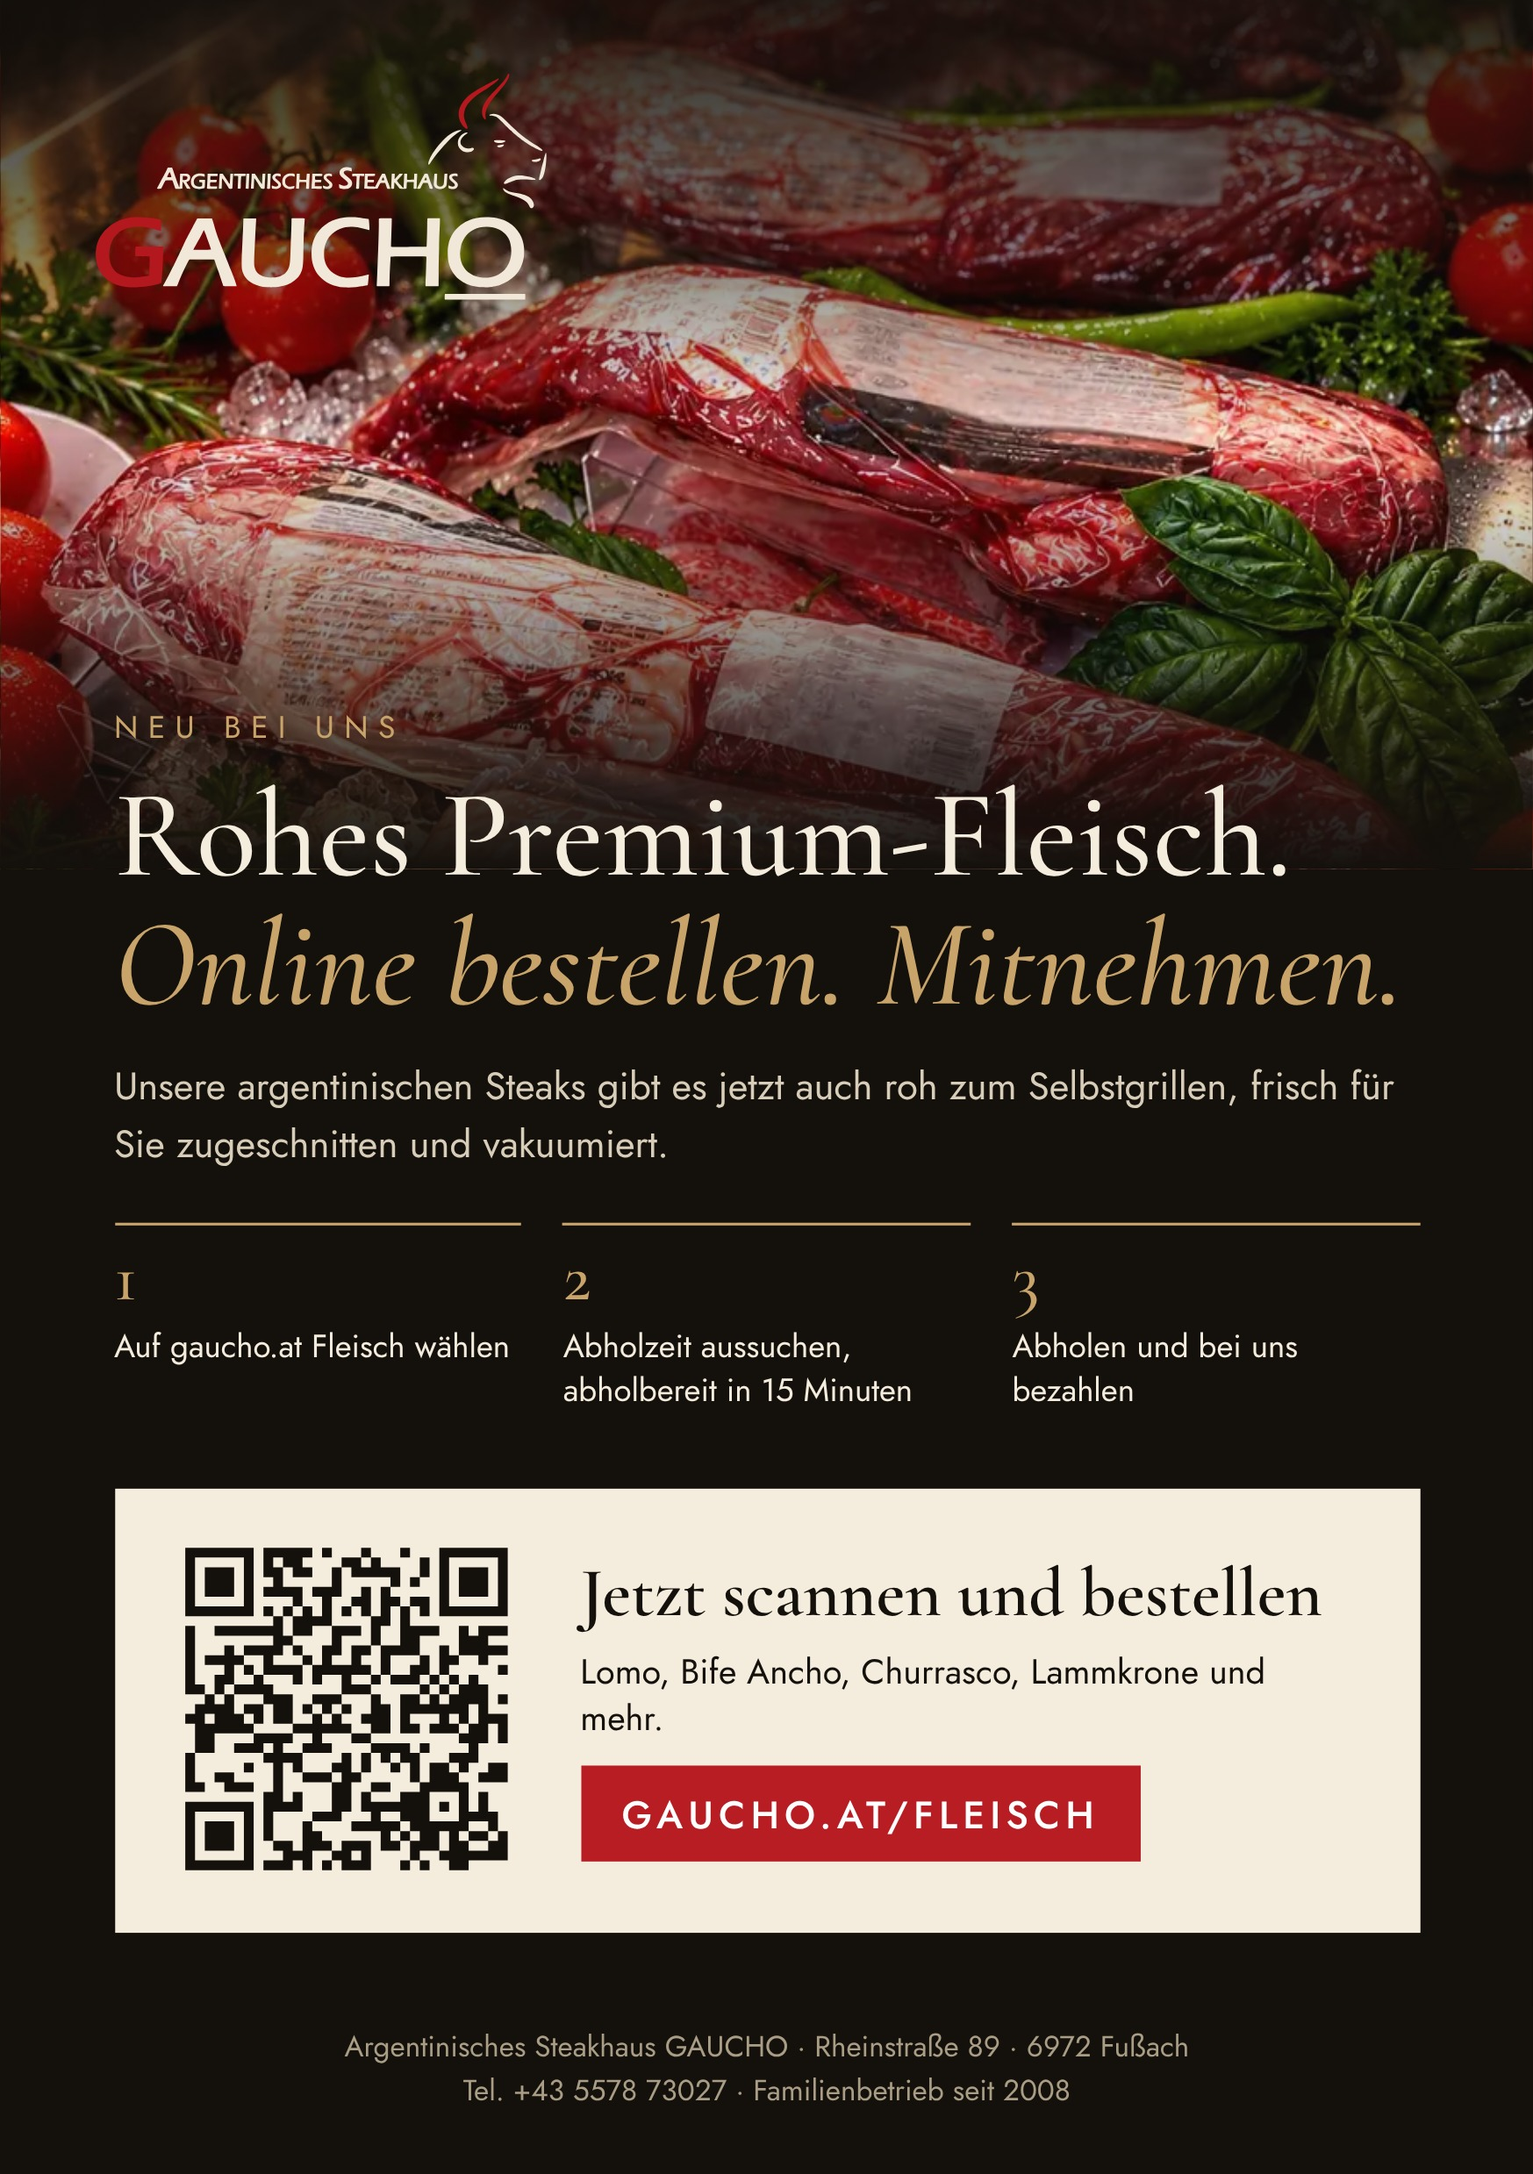
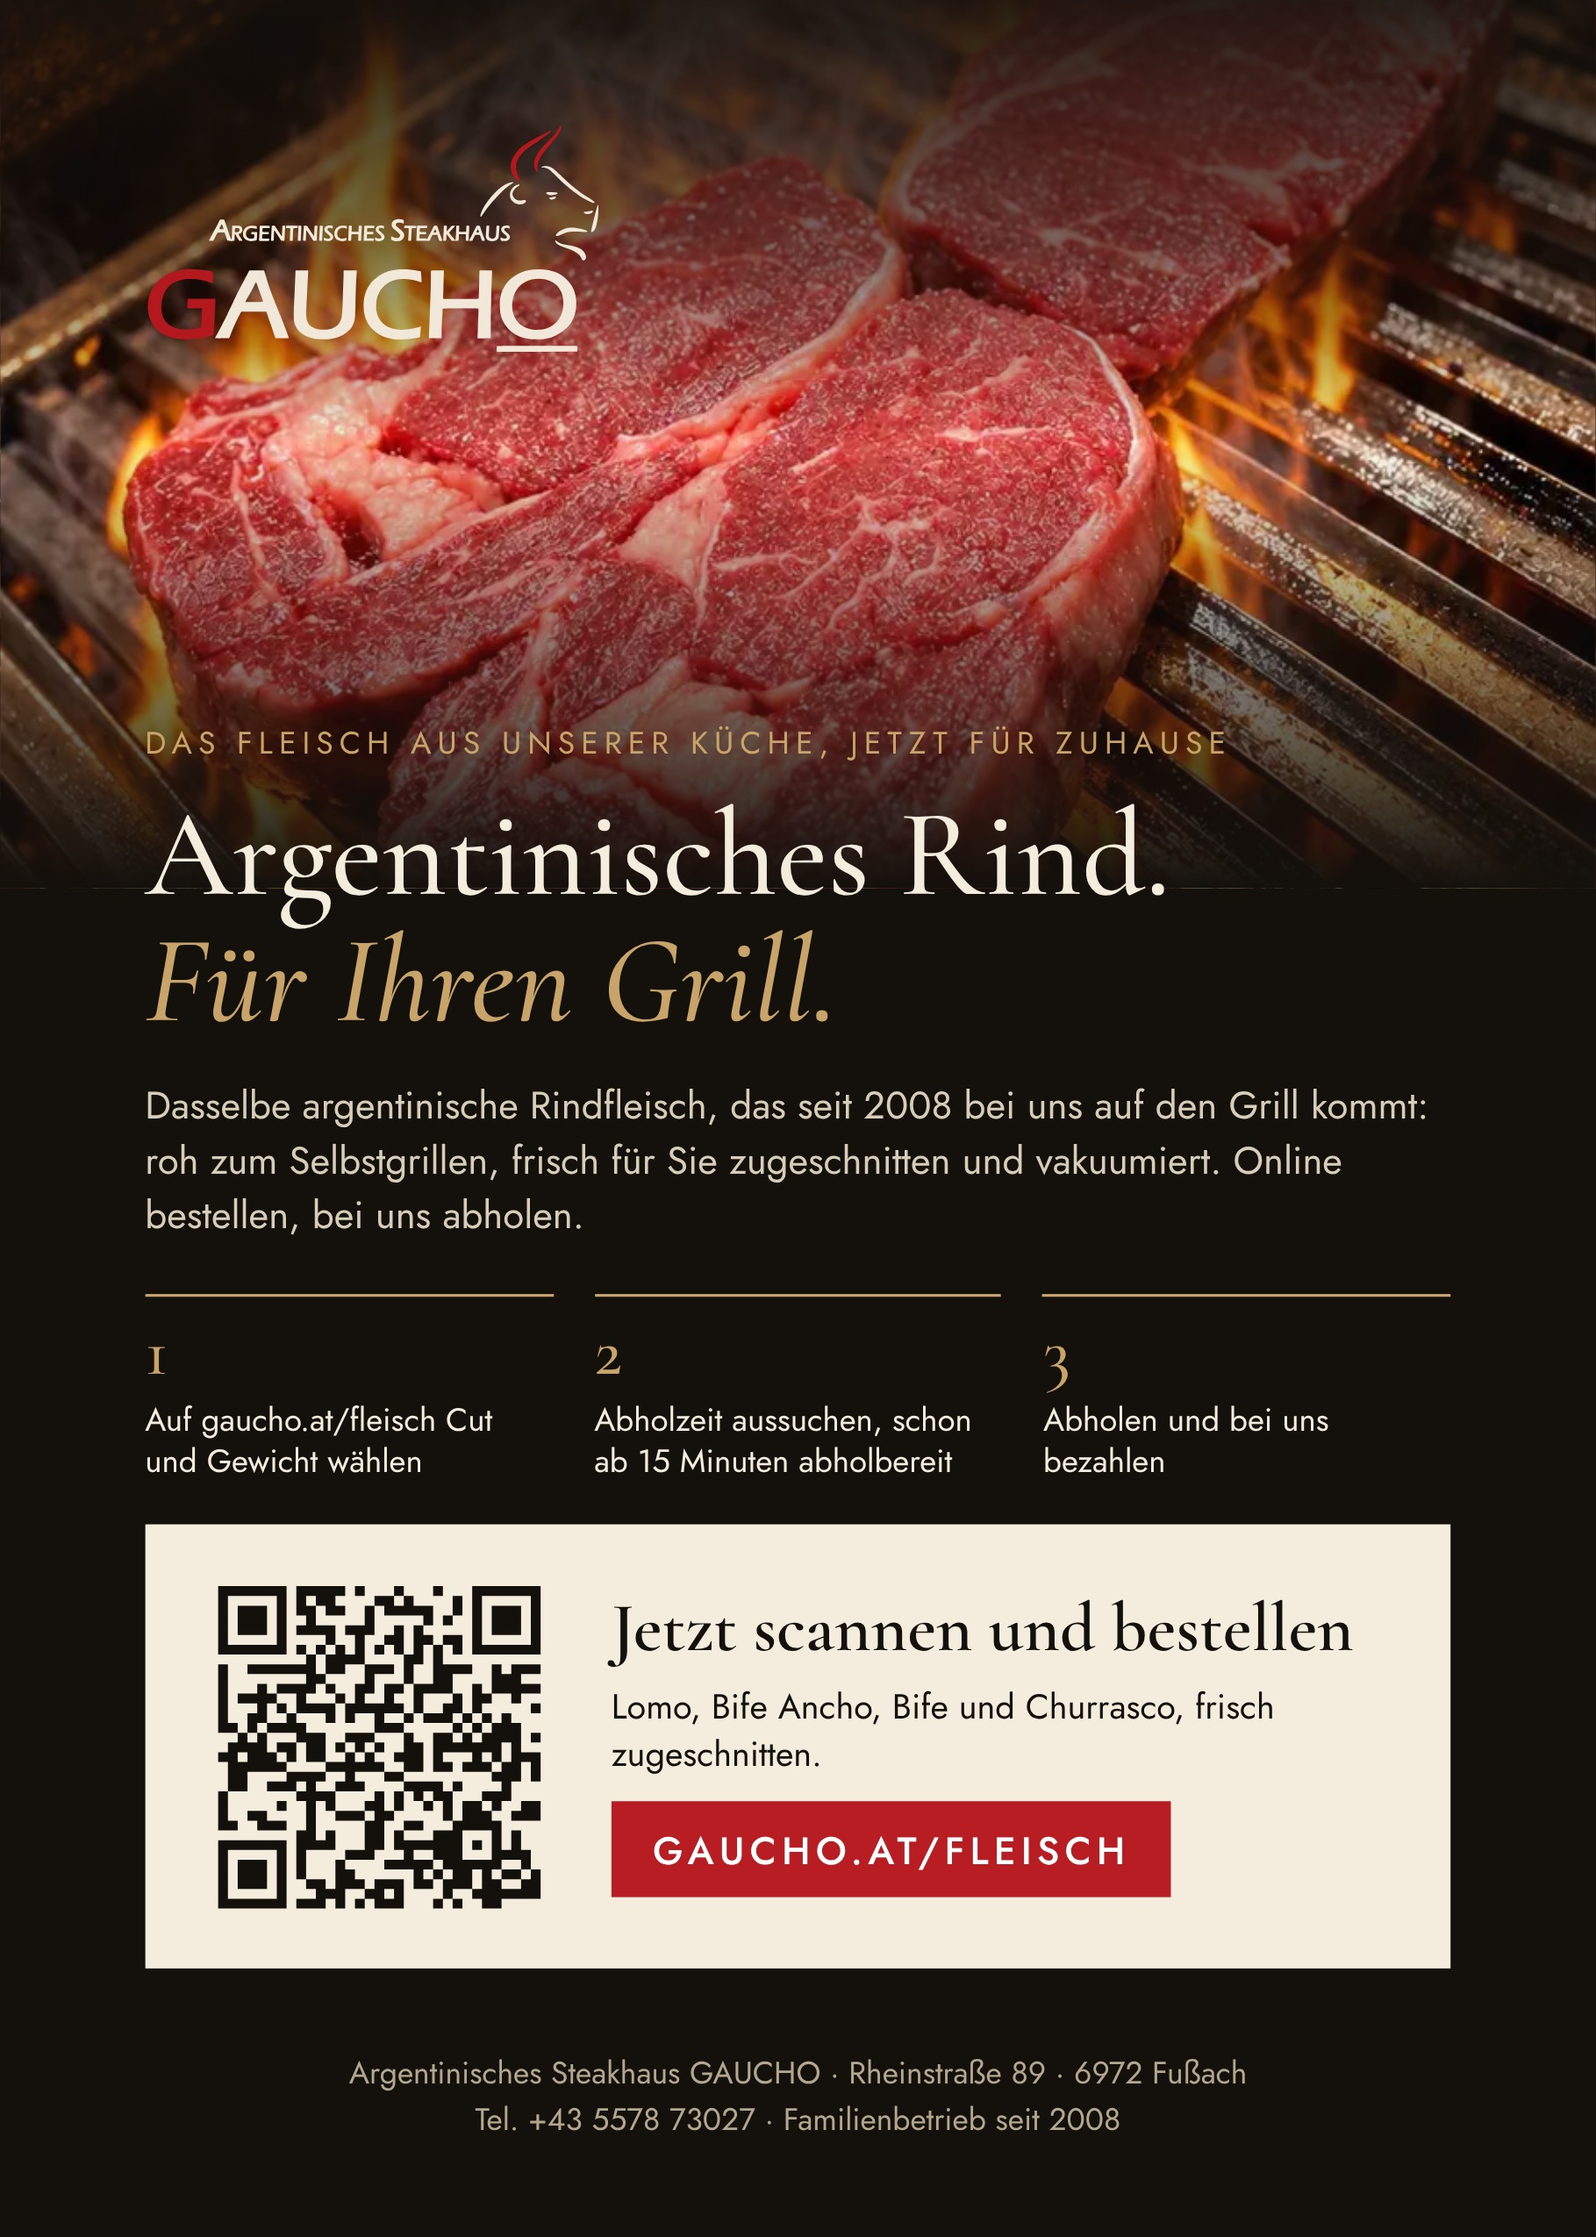
Flyer überarbeitet: Beschnitt 3 mm, neue Überschrift und Foto, QR-Code hinten
Claude-Session: https://claude.ai/code/session_01YbDbssFw5gtfydQv6mVBaH

diff --git a/flyer/rueckseite.html b/flyer/rueckseite.html
@@ -1,10 +1,10 @@
 <!doctype html><html lang="de"><head><meta charset="utf-8"><title>Gaucho Flyer Rückseite</title>
 <link rel="stylesheet" href="../assets/fonts.css"><base href="../assets/">
 <style>
-@page{size:148mm 210mm;margin:0}
+@page{size:154mm 216mm;margin:0}
 *{box-sizing:border-box;margin:0;padding:0}
-html,body{width:148mm;height:210mm;background:#14100c;color:#f4ecdc;font-family:Jost,sans-serif;-webkit-print-color-adjust:exact;print-color-adjust:exact}
-.f{position:relative;width:148mm;height:210mm;overflow:hidden;display:flex;flex-direction:column}
+html,body{width:154mm;height:216mm;background:#14100c;color:#f4ecdc;font-family:Jost,sans-serif;-webkit-print-color-adjust:exact;print-color-adjust:exact}
+.f{position:relative;width:154mm;height:216mm;overflow:hidden;display:flex;flex-direction:column}
 .foto{height:84mm;background:url(bilder/roh-vakuum-900.webp) center/cover;position:relative}
 .foto:after{content:"";position:absolute;inset:0;background:linear-gradient(180deg,rgba(20,16,12,.92),rgba(20,16,12,.55) 28%,rgba(20,16,12,0) 50%,#14100c 100%)}
 .logo{position:absolute;top:7mm;left:9mm;width:44mm;z-index:2}
@@ -24,7 +24,7 @@ h1 em{color:#c9a46a}
 .url{display:inline-block;margin-top:2.5mm;background:#b81d24;color:#fff;font-weight:500;letter-spacing:.14em;font-size:10.5pt;padding:2mm 4mm;text-transform:uppercase}
 .fuss{font-size:8pt;color:#a99d86;text-align:center;padding-bottom:6mm;line-height:1.5}
 
-.r{padding:9mm 11mm 0;flex:1;display:flex;flex-direction:column}
+.r{padding:13mm 14mm 0;flex:1;display:flex;flex-direction:column}
 .kopf{display:flex;justify-content:space-between;align-items:flex-start}
 .kopf img{width:34mm}
 h1.k{font-size:30pt;margin:4mm 0 7mm}
@@ -33,7 +33,7 @@ h1.k{font-size:30pt;margin:4mm 0 7mm}
 .cut .b{aspect-ratio:3/4;background-size:cover;background-position:center}
 .cut .t{padding:2mm 3mm 2.5mm}
 .cut b{font-family:'Cormorant Garamond',serif;font-size:13pt;font-weight:600;display:block;line-height:1.05}
-.cut span{font-size:6.6pt;color:#c9a46a;letter-spacing:.08em}
+.cut span{font-size:7.8pt;color:#c9a46a;letter-spacing:.08em}
 .zwei{display:grid;grid-template-columns:1fr 1fr;gap:6mm;margin-top:11mm}
 .zwei h3{font-family:'Cormorant Garamond',serif;font-size:16pt;font-weight:600;color:#c9a46a;border-bottom:.3mm solid #c9a46a;padding-bottom:1mm;margin-bottom:1.5mm}
 .zwei p{font-size:9.6pt;line-height:1.55;color:#d8cdb8}
@@ -41,8 +41,9 @@ h1.k{font-size:30pt;margin:4mm 0 7mm}
 .gh{margin-top:11mm;border:.3mm solid #c9a46a;padding:3mm 4mm;display:flex;justify-content:space-between;align-items:center;gap:4mm}
 .gh b{font-family:'Cormorant Garamond',serif;font-size:16pt;font-weight:600}
 .gh p{font-size:9.2pt;color:#d8cdb8;line-height:1.35}
-.gh .url{margin:0;white-space:nowrap;font-size:9pt}
-.fuss{margin-top:auto;padding-top:4mm}
+.gh .url{margin-top:2.5mm;white-space:nowrap;font-size:9pt}
+.qr-klein{width:26mm;height:26mm;flex:none;background:#f4ecdc;padding:1.5mm}
+.fuss{margin-top:auto;padding-top:4mm;padding-bottom:9mm;font-size:8.5pt;color:#b3a78f}
 </style></head><body><div class="f"><div class="r">
 <div class="kopf"><div><div class="kicker">Carnicería · Fleisch-Shop</div><h1 class="k">Unsere <em>Cuts</em></h1></div><img src="logo-hell.svg" alt=""></div>
 <div class="cuts">
@@ -52,9 +53,9 @@ h1.k{font-size:30pt;margin:4mm 0 7mm}
  <div class="cut"><div class="b" style="background-image:url(bilder/churrasco-900.webp)"></div><div class="t"><b>Churrasco</b><span>HÜFTSTEAK</span></div></div>
 </div>
 <div class="zwei">
- <div><h3>Fleisch abholen</h3><p><strong>Di – Fr</strong> 15:00 – 21:00<br><strong>Sa, So</strong><br>12:00 – 14:00 · 16:00 – 21:00<br><strong>Mo</strong> Ruhetag<br>Frisch zugeschnitten, Gewicht frei wählbar. Bezahlung bar oder mit Karte bei Abholung.</p></div>
- <div><h3>Im Restaurant</h3><p><strong>Di – Fr</strong> 17:00 – 22:00<br><strong>Sa, So & Feiertage</strong><br>11:00 – 14:00 · 17:00 – 22:00<br><strong>Mo</strong> Ruhetag<br>Tisch reservieren auf gaucho.at/reservieren oder telefonisch.</p></div>
+ <div><h3>Fleisch abholen</h3><p><strong>Di – Fr</strong> 15 – 21 Uhr<br><strong>Sa, So</strong><br>12 – 14 und 16 – 21 Uhr<br><strong>Mo</strong> Ruhetag<br>Frisch zugeschnitten, Gewicht frei wählbar. Bezahlung bar oder mit Karte bei Abholung.</p></div>
+ <div><h3>Im Restaurant</h3><p><strong>Di – Fr</strong> 17 – 22 Uhr<br><strong>Sa, So, Feiertage</strong><br>11 – 14 und 17 – 22 Uhr<br><strong>Mo</strong> Ruhetag<br>Tisch reservieren auf gaucho.at/reservieren oder telefonisch.</p></div>
 </div>
-<div class="gh"><div><b>Für Grillabend & Festtage</b><p>Steak in Restaurantqualität für zuhause. Abholbereit schon 15 Minuten nach der Bestellung.</p></div><span class="url">gaucho.at/fleisch</span></div>
+<div class="gh"><div><b>Für Grillabend & Festtage</b><p>Steak in Restaurantqualität für zuhause. Schon ab 15 Minuten nach der Bestellung abholbereit.</p><span class="url">gaucho.at/fleisch</span></div><svg viewBox="0 0 350 350" xmlns="http://www.w3.org/2000/svg" class="segno qr-klein"><g transform="scale(10)"><path fill="#f4ecdc" d="M0 0h35v35h-35z"/><path class="qrline" stroke="#14100c" d="M1 1.5h7m1 0h5m1 0h1m3 0h1m3 0h1m3 0h7m-33 1h1m5 0h1m1 0h1m1 0h2m4 0h2m1 0h1m4 0h1m1 0h1m5 0h1m-33 1h1m1 0h3m1 0h1m1 0h2m1 0h2m2 0h1m1 0h5m2 0h1m1 0h1m1 0h3m1 0h1m-33 1h1m1 0h3m1 0h1m2 0h1m5 0h1m5 0h1m1 0h1m2 0h1m1 0h3m1 0h1m-33 1h1m1 0h3m1 0h1m1 0h4m1 0h3m2 0h1m1 0h1m5 0h1m1 0h3m1 0h1m-33 1h1m5 0h1m4 0h1m2 0h1m2 0h2m1 0h2m1 0h2m1 0h1m5 0h1m-33 1h7m1 0h1m1 0h1m1 0h1m1 0h1m1 0h1m1 0h1m1 0h1m1 0h1m1 0h1m1 0h7m-24 1h1m1 0h4m4 0h2m1 0h1m-23 1h1m2 0h7m1 0h2m2 0h3m1 0h1m2 0h4m2 0h1m1 0h3m-33 1h1m8 0h2m4 0h1m3 0h1m2 0h2m4 0h3m-31 1h1m3 0h1m1 0h4m1 0h1m2 0h2m1 0h2m1 0h4m2 0h1m1 0h5m-33 1h1m1 0h4m2 0h1m3 0h1m1 0h1m2 0h1m2 0h1m3 0h1m1 0h2m2 0h1m-31 1h1m3 0h1m1 0h1m1 0h4m1 0h6m1 0h1m2 0h2m1 0h1m5 0h1m-33 1h1m2 0h2m2 0h1m3 0h1m1 0h1m2 0h1m2 0h1m1 0h3m1 0h1m1 0h1m1 0h1m-30 1h2m1 0h1m1 0h4m7 0h3m5 0h1m1 0h1m1 0h3m-29 1h1m1 0h1m3 0h3m2 0h3m3 0h1m2 0h2m1 0h1m1 0h4m1 0h1m-32 1h4m1 0h2m1 0h2m1 0h1m1 0h1m1 0h1m2 0h2m1 0h7m1 0h1m-31 1h2m1 0h3m1 0h1m1 0h2m2 0h1m1 0h1m2 0h3m1 0h1m3 0h1m1 0h1m1 0h3m-32 1h6m4 0h6m2 0h2m1 0h2m1 0h3m1 0h2m1 0h1m-32 1h2m4 0h4m2 0h1m3 0h2m9 0h3m1 0h1m-32 1h2m2 0h3m1 0h1m2 0h3m4 0h4m1 0h1m4 0h1m-30 1h1m7 0h4m4 0h1m1 0h1m1 0h1m1 0h2m3 0h3m-30 1h1m5 0h1m2 0h1m1 0h1m3 0h2m1 0h1m2 0h1m1 0h1m1 0h2m1 0h1m2 0h2m-33 1h1m2 0h2m4 0h1m2 0h3m1 0h2m5 0h1m1 0h3m2 0h3m-33 1h2m2 0h3m2 0h1m5 0h2m2 0h2m3 0h5m-21 1h2m1 0h1m3 0h2m1 0h1m3 0h3m3 0h1m1 0h1m-31 1h7m1 0h4m3 0h2m1 0h7m1 0h1m1 0h1m1 0h1m-31 1h1m5 0h1m1 0h1m4 0h3m3 0h1m2 0h3m3 0h4m-32 1h1m1 0h3m1 0h1m1 0h1m3 0h1m4 0h5m1 0h6m2 0h1m-32 1h1m1 0h3m1 0h1m1 0h1m3 0h2m6 0h1m1 0h1m1 0h2m1 0h1m1 0h2m1 0h1m-33 1h1m1 0h3m1 0h1m2 0h2m1 0h3m1 0h3m1 0h2m1 0h3m1 0h2m2 0h2m-33 1h1m5 0h1m3 0h3m2 0h2m1 0h1m4 0h1m2 0h7m-33 1h7m1 0h3m1 0h1m1 0h1m1 0h3m3 0h1m1 0h1m2 0h2"/></g></svg></div>
 <div class="fuss">Argentinisches Steakhaus GAUCHO · Rheinstraße 89 · 6972 Fußach<br>Tel. +43 5578 73027 · Mobil +43 676 9181 402 · info@gaucho.at · gaucho.at</div>
 </div></div></body></html>

diff --git a/flyer/flyer.html b/flyer/flyer.html
@@ -1,15 +1,15 @@
 <!doctype html><html lang="de"><head><meta charset="utf-8"><title>Gaucho Flyer Fleisch-Shop</title>
 <link rel="stylesheet" href="../assets/fonts.css"><base href="../assets/">
 <style>
-@page{size:148mm 210mm;margin:0}
+@page{size:154mm 216mm;margin:0}
 *{box-sizing:border-box;margin:0;padding:0}
-html,body{width:148mm;height:210mm;background:#14100c;color:#f4ecdc;font-family:Jost,sans-serif;-webkit-print-color-adjust:exact;print-color-adjust:exact}
-.f{position:relative;width:148mm;height:210mm;overflow:hidden;display:flex;flex-direction:column}
-.foto{height:84mm;background:url(bilder/roh-vakuum-900.webp) center/cover;position:relative}
+html,body{width:154mm;height:216mm;background:#14100c;color:#f4ecdc;font-family:Jost,sans-serif;-webkit-print-color-adjust:exact;print-color-adjust:exact}
+.f{position:relative;width:154mm;height:216mm;overflow:hidden;display:flex;flex-direction:column}
+.foto{height:90mm;background:url(bilder/grill-roh-feuer-900.webp) center 58%/cover;position:relative}
 .foto:after{content:"";position:absolute;inset:0;background:linear-gradient(180deg,rgba(20,16,12,.92),rgba(20,16,12,.55) 28%,rgba(20,16,12,0) 50%,#14100c 100%)}
-.logo{position:absolute;top:7mm;left:9mm;width:44mm;z-index:2}
-.in{padding:0 11mm;flex:1;display:flex;flex-direction:column;margin-top:-16mm;position:relative;z-index:2}
-.kicker{font-size:8.5pt;letter-spacing:.32em;text-transform:uppercase;color:#c9a46a}
+.logo{position:absolute;top:12mm;left:14mm;width:44mm;z-index:2}
+.in{padding:0 14mm;flex:1;display:flex;flex-direction:column;margin-top:-16mm;position:relative;z-index:2}
+.kicker{font-size:8.5pt;letter-spacing:.2em;text-transform:uppercase;color:#c9a46a}
 h1{font-family:'Cormorant Garamond',serif;font-weight:500;font-size:34pt;line-height:1.02;margin:2.5mm 0 3mm}
 h1 em{color:#c9a46a}
 .lead{font-size:10.5pt;line-height:1.45;color:#d8cdb8}
@@ -17,24 +17,24 @@ h1 em{color:#c9a46a}
 .st div{flex:1;border-top:.3mm solid #c9a46a;padding-top:2mm}
 .st b{font-family:'Cormorant Garamond',serif;font-size:19pt;color:#c9a46a;font-weight:500;display:block;line-height:1}
 .st span{font-size:8.8pt;line-height:1.3;display:block;margin-top:1mm}
-.box{margin-top:auto;margin-bottom:9mm;display:flex;gap:6mm;align-items:center;background:#f4ecdc;color:#14100c;padding:5mm 6mm}
+.box{margin-top:auto;margin-bottom:8mm;display:flex;gap:6mm;align-items:center;background:#f4ecdc;color:#14100c;padding:5mm 6mm}
 .box svg{width:33mm;height:33mm;flex:none}
 .box h2{font-family:'Cormorant Garamond',serif;font-size:19pt;line-height:1.05;font-weight:600}
 .box p{font-size:9.5pt;margin-top:1.5mm;line-height:1.35}
 .url{display:inline-block;margin-top:2.5mm;background:#b81d24;color:#fff;font-weight:500;letter-spacing:.14em;font-size:10.5pt;padding:2mm 4mm;text-transform:uppercase}
-.fuss{font-size:8pt;color:#a99d86;text-align:center;padding-bottom:6mm;line-height:1.5}
+.fuss{font-size:8.5pt;color:#b3a78f;text-align:center;padding-bottom:9mm;line-height:1.5}
 </style></head><body><div class="f">
 <div class="foto"><img class="logo" src="logo-hell.svg" alt=""></div>
 <div class="in">
-<div class="kicker">Neu bei uns</div>
-<h1>Rohes Premium-Fleisch.<br><em>Online bestellen. Mitnehmen.</em></h1>
-<p class="lead">Unsere argentinischen Steaks gibt es jetzt auch roh zum Selbstgrillen, frisch für Sie zugeschnitten und vakuumiert.</p>
+<div class="kicker">Das Fleisch aus unserer Küche, jetzt für zuhause</div>
+<h1>Argentinisches Rind.<br><em>Für Ihren Grill.</em></h1>
+<p class="lead">Dasselbe argentinische Rindfleisch, das seit 2008 bei uns auf den Grill kommt: roh zum Selbstgrillen, frisch für Sie zugeschnitten und vakuumiert. Online bestellen, bei uns abholen.</p>
 <div class="st">
-<div><b>1</b><span>Auf gaucho.at Fleisch wählen</span></div>
-<div><b>2</b><span>Abholzeit aussuchen, abholbereit in 15 Minuten</span></div>
+<div><b>1</b><span>Auf gaucho.at/fleisch Cut und Gewicht wählen</span></div>
+<div><b>2</b><span>Abholzeit aussuchen, schon ab 15 Minuten abholbereit</span></div>
 <div><b>3</b><span>Abholen und bei uns bezahlen</span></div></div>
 <div class="box"><svg viewBox="0 0 350 350" xmlns="http://www.w3.org/2000/svg" class="segno"><g transform="scale(10)"><path fill="#f4ecdc" d="M0 0h35v35h-35z"/><path class="qrline" stroke="#14100c" d="M1 1.5h7m1 0h5m1 0h1m3 0h1m3 0h1m3 0h7m-33 1h1m5 0h1m1 0h1m1 0h2m4 0h2m1 0h1m4 0h1m1 0h1m5 0h1m-33 1h1m1 0h3m1 0h1m1 0h2m1 0h2m2 0h1m1 0h5m2 0h1m1 0h1m1 0h3m1 0h1m-33 1h1m1 0h3m1 0h1m2 0h1m5 0h1m5 0h1m1 0h1m2 0h1m1 0h3m1 0h1m-33 1h1m1 0h3m1 0h1m1 0h4m1 0h3m2 0h1m1 0h1m5 0h1m1 0h3m1 0h1m-33 1h1m5 0h1m4 0h1m2 0h1m2 0h2m1 0h2m1 0h2m1 0h1m5 0h1m-33 1h7m1 0h1m1 0h1m1 0h1m1 0h1m1 0h1m1 0h1m1 0h1m1 0h1m1 0h1m1 0h7m-24 1h1m1 0h4m4 0h2m1 0h1m-23 1h1m2 0h7m1 0h2m2 0h3m1 0h1m2 0h4m2 0h1m1 0h3m-33 1h1m8 0h2m4 0h1m3 0h1m2 0h2m4 0h3m-31 1h1m3 0h1m1 0h4m1 0h1m2 0h2m1 0h2m1 0h4m2 0h1m1 0h5m-33 1h1m1 0h4m2 0h1m3 0h1m1 0h1m2 0h1m2 0h1m3 0h1m1 0h2m2 0h1m-31 1h1m3 0h1m1 0h1m1 0h4m1 0h6m1 0h1m2 0h2m1 0h1m5 0h1m-33 1h1m2 0h2m2 0h1m3 0h1m1 0h1m2 0h1m2 0h1m1 0h3m1 0h1m1 0h1m1 0h1m-30 1h2m1 0h1m1 0h4m7 0h3m5 0h1m1 0h1m1 0h3m-29 1h1m1 0h1m3 0h3m2 0h3m3 0h1m2 0h2m1 0h1m1 0h4m1 0h1m-32 1h4m1 0h2m1 0h2m1 0h1m1 0h1m1 0h1m2 0h2m1 0h7m1 0h1m-31 1h2m1 0h3m1 0h1m1 0h2m2 0h1m1 0h1m2 0h3m1 0h1m3 0h1m1 0h1m1 0h3m-32 1h6m4 0h6m2 0h2m1 0h2m1 0h3m1 0h2m1 0h1m-32 1h2m4 0h4m2 0h1m3 0h2m9 0h3m1 0h1m-32 1h2m2 0h3m1 0h1m2 0h3m4 0h4m1 0h1m4 0h1m-30 1h1m7 0h4m4 0h1m1 0h1m1 0h1m1 0h2m3 0h3m-30 1h1m5 0h1m2 0h1m1 0h1m3 0h2m1 0h1m2 0h1m1 0h1m1 0h2m1 0h1m2 0h2m-33 1h1m2 0h2m4 0h1m2 0h3m1 0h2m5 0h1m1 0h3m2 0h3m-33 1h2m2 0h3m2 0h1m5 0h2m2 0h2m3 0h5m-21 1h2m1 0h1m3 0h2m1 0h1m3 0h3m3 0h1m1 0h1m-31 1h7m1 0h4m3 0h2m1 0h7m1 0h1m1 0h1m1 0h1m-31 1h1m5 0h1m1 0h1m4 0h3m3 0h1m2 0h3m3 0h4m-32 1h1m1 0h3m1 0h1m1 0h1m3 0h1m4 0h5m1 0h6m2 0h1m-32 1h1m1 0h3m1 0h1m1 0h1m3 0h2m6 0h1m1 0h1m1 0h2m1 0h1m1 0h2m1 0h1m-33 1h1m1 0h3m1 0h1m2 0h2m1 0h3m1 0h3m1 0h2m1 0h3m1 0h2m2 0h2m-33 1h1m5 0h1m3 0h3m2 0h2m1 0h1m4 0h1m2 0h7m-33 1h7m1 0h3m1 0h1m1 0h1m1 0h3m3 0h1m1 0h1m2 0h2"/></g></svg>
 
-<div><h2>Jetzt scannen und bestellen</h2><p>Lomo, Bife Ancho, Churrasco, Lammkrone und mehr.</p><span class="url">gaucho.at/fleisch</span></div></div>
+<div><h2>Jetzt scannen und bestellen</h2><p>Lomo, Bife Ancho, Bife und Churrasco, frisch zugeschnitten.</p><span class="url">gaucho.at/fleisch</span></div></div>
 <div class="fuss">Argentinisches Steakhaus GAUCHO · Rheinstraße 89 · 6972 Fußach<br>Tel. +43 5578 73027 · Familienbetrieb seit 2008</div>
 </div></div></body></html>
